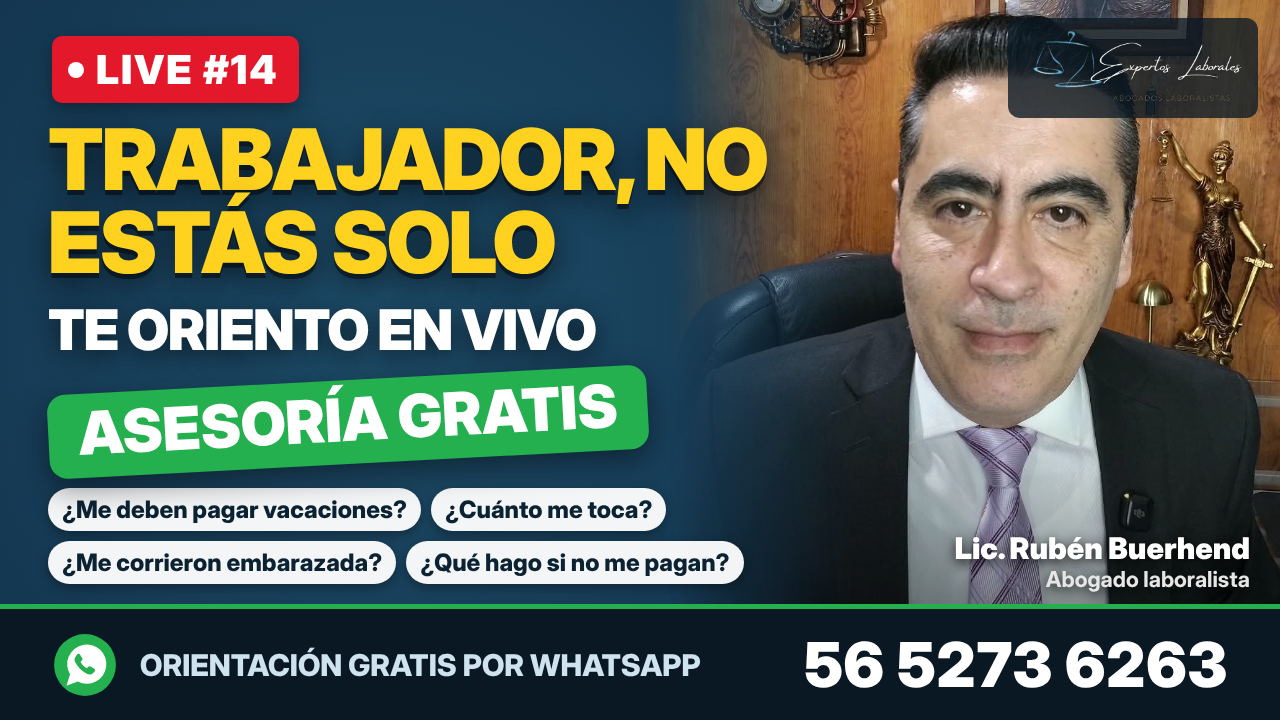
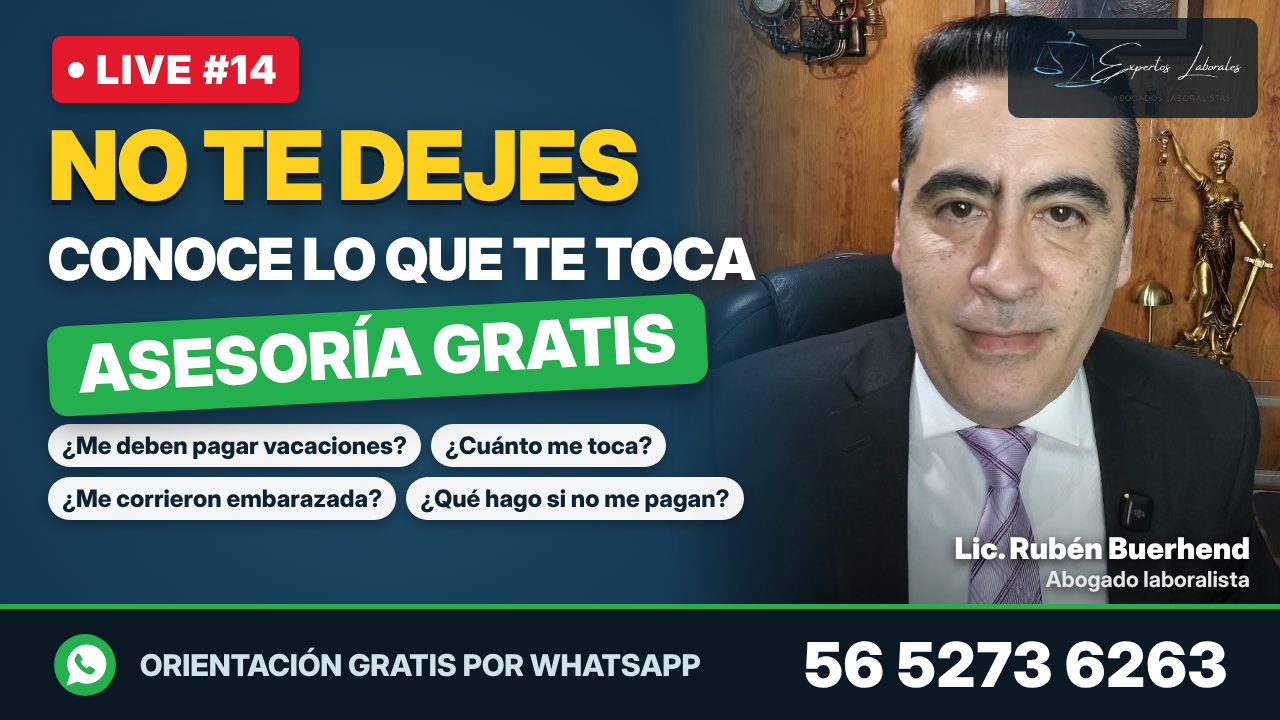
LIVE #14: frase NO TE DEJES
Claude-Session: https://claude.ai/code/session_01C3deJav44xscTHSyeunJhm

Changed region(s): [[0.0312, 0.1528, 0.625, 0.825]]

diff --git a/CLAUDE.md b/CLAUDE.md
@@ -99,7 +99,7 @@ documento $49 / curso $299) → se volvieron juicio.
   el usuario avisa cada vez que sube un video -> correr
   `cd marketing/miniaturas && node generar_serie_lives.js "$(pwd)" N`,
   mandarle `live_N.png`, y anotar el video en `registro.json` ("video").**
-  Entregadas #1-#15 (el usuario tenía ~15 lives listos para subir). Foto nueva 'gris' (selfie traje gris-azul, corbata azul, `ruben_selfie_traje_gris_derecha.jpg`, 18 nov 2026, pedido del usuario) -- la #11 se rehízo con ella (versión volteada); desde la #12 el usuario la pidió en el sentido ORIGINAL de la cámara (`ruben_selfie_traje_gris.jpg`) porque la volteada se le veía rara -- por eso redibujar la #11 hoy ya no sale idéntica. 18 nov: el usuario pidió no repetir frases -- se agregaron 5 frases nuevas (índices 3-7) y la #12 usa "CONOCE TUS DERECHOS". 20 nov: foto nueva gris2 (traje gris, corbata gris, `ruben_selfie_traje_gris2.jpg`, sin voltear) y la #13 usa "DEFIENDE TU TRABAJO" (al usuario no le gustó "¿TE CORRIERON?"). Foto nueva lila (traje negro, corbata lila, `ruben_selfie_corbata_lila.jpg`, sin voltear) en la #14 con frase "TRABAJADOR, NO ESTÁS SOLO" (3 frases nuevas más, índices 8-10; al usuario no le gustó "¿TU PATRÓN NO TE PAGA?"). El generador elige los componentes MENOS usados y evita repetir color/foto/frase/preguntas con los 2 lives anteriores (la 1a versión solo alternaba azul/rojo, corregido).
+  Entregadas #1-#15 (el usuario tenía ~15 lives listos para subir). Foto nueva 'gris' (selfie traje gris-azul, corbata azul, `ruben_selfie_traje_gris_derecha.jpg`, 18 nov 2026, pedido del usuario) -- la #11 se rehízo con ella (versión volteada); desde la #12 el usuario la pidió en el sentido ORIGINAL de la cámara (`ruben_selfie_traje_gris.jpg`) porque la volteada se le veía rara -- por eso redibujar la #11 hoy ya no sale idéntica. 18 nov: el usuario pidió no repetir frases -- se agregaron 5 frases nuevas (índices 3-7) y la #12 usa "CONOCE TUS DERECHOS". 20 nov: foto nueva gris2 (traje gris, corbata gris, `ruben_selfie_traje_gris2.jpg`, sin voltear) y la #13 usa "DEFIENDE TU TRABAJO" (al usuario no le gustó "¿TE CORRIERON?"). Foto nueva lila (traje negro, corbata lila, `ruben_selfie_corbata_lila.jpg`, sin voltear) en la #14 con frase "NO TE DEJES" (la eligió el usuario de una hoja de 5 opciones -- mejor mostrar opciones que adivinar; rechazó "¿TU PATRÓN NO TE PAGA?" y "TRABAJADOR, NO ESTÁS SOLO"). Frases disponibles: índices 0-12. El generador elige los componentes MENOS usados y evita repetir color/foto/frase/preguntas con los 2 lives anteriores (la 1a versión solo alternaba azul/rojo, corregido).
 - **Métricas de redes** (YouTube/TikTok): `marketing/metricas_redes.md`,
   punto de partida 16 nov 2026 (YouTube @rubenbuerhend: 24 suscriptores, 3
   videos; TikTok: 104.1K seguidores). Agregar fila con cada captura nueva

diff --git a/marketing/miniaturas/registro.md b/marketing/miniaturas/registro.md
@@ -17,5 +17,5 @@ Cada combinación (color + frase + preguntas + foto) se usa una sola vez.
 | 11 | Turquesa | TUS DUDAS LABORALES | Juego 2 | gris | 2026-11-16 | (pendiente) |
 | 12 | Naranja | CONOCE TUS DERECHOS | Juego 3 | gris | 2026-11-16 | (pendiente) |
 | 13 | Rojo | DEFIENDE TU TRABAJO | Juego 1 | gris2 | 2026-11-16 | (pendiente) |
-| 14 | Azul | TRABAJADOR, NO ESTÁS SOLO | Juego 2 | lila | 2026-11-16 | (pendiente) |
+| 14 | Azul | NO TE DEJES | Juego 2 | lila | 2026-11-16 | (pendiente) |
 | 15 | Morado | PREGÚNTAME LO QUE QUIERAS | Juego 3 | azul | 2026-11-16 | (pendiente) |
